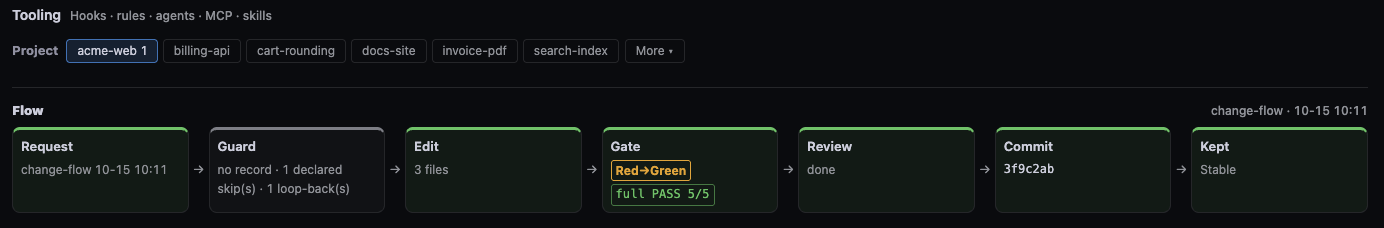
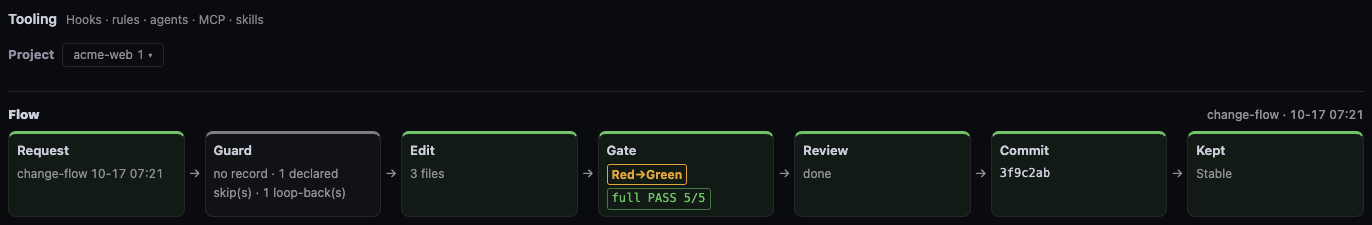
README images: generators for every shot, ship step to regenerate them
pipeline-run and harness-flow were hand captures with no generator and
went stale after UI changes; readme_shots.mjs now shoots both. Timeline
shots wait for their data (the account picker and «Runs n» lane were
sometimes missing), and the demo server no longer inherits
CLAUDE_CONFIG_DIR. sidereus-ship gains a step: a change that touches
web/ regenerates the README images it affects, keeping only images
whose pixels changed.

Claude-Session: https://claude.ai/code/session_01MxebWeSyRGi1H6Uy4AA5wg

diff --git a/scripts/README.md b/scripts/README.md
@@ -6,6 +6,7 @@
 - `leakscan.py` — scans shipped files (`git ls-files` minus `.distignore`) for your git user.name / user.email / login, real home paths, session UUIDs (outside `tests/`, demo data) and secrets. Skip a line with `leakscan: allow`.
 - `fmt_probe.py [--n N] [--json]` — upstream record-format probe: runs Sidereus's own parsers over the N newest real Claude Code / Codex / Gemini session files and names any field that came out empty on all of them (exit 1). A platform with no files is «skip». Run after a CLI upgrade. ⚠Reads live files — never from `check.sh`/`tests/run.sh`; `tests/test_fmt_probe.py` covers it with fixtures.
 - `readme_shots.mjs [name…]` — regenerates `docs/images/<name>-{en,ko}.png` (README/GUIDE) from its own `--demo` server and headless Chrome; 1200×750 app view at 2x, framed to 1600×1000. Never touches the live viewer.
+  - `pipeline-run` and `harness-flow` are unframed panel crops (1440-wide page, 1x): the Pipelines run canvas down to «Running N», and the «Tooling» › «Flow» strip.
 - `readme_gif.mjs [--frames DIR]` — animated README hero `docs/images/hero-{en,ko}.gif` (Pipelines view, change-flow stages lighting in turn; 1120×700, ~10s loop, ~400KB) with the same isolation; `--frames` writes three sample frames as PNG. Shared demo/Chrome/CDP helpers: `readme_cdp.mjs` — it also blanks `saverView`/`saverViews` in `/api/state` for both (the saver hook is not shipped, so users never see that chip).
 - `room_log.py <room> [--since <ISO|ns>] [--from-doc <path> | --doc-dir <dir>] [--bus <path>]` — one mailbox room's messages, oldest first (header line + time · sender · id · `[D]` decision tag · text); `--from-doc` (or `--doc-dir` = `<dir>/<slug>.md`) cuts at that room's last `room-minutes` marker. Input of the `room-minutes` skill; prints message text to the terminal only.
 - `install-hooks.sh` — sets `core.hooksPath=.githooks` once; `.githooks/pre-commit` then runs `check.sh --fast` and blocks the commit on FAIL (`--no-verify` to bypass).

diff --git a/.claude/skills/sidereus-ship/SKILL.md b/.claude/skills/sidereus-ship/SKILL.md
@@ -21,9 +21,12 @@ Tag each Bash description with `[pl:<pipeline>/<stage>]` when running inside a p
 4. **Live screen check** — the rendered page at 900 / 1100 / 1440 widths, console errors 0.
    Headless playwright on `http://127.0.0.1:8799/?nosave=1` is fine (⚠always `?nosave=1`: MCP browsers report `navigator.webdriver=false`, so without it a click writes the owner's prefs). ⚠Never open a new browser for the user (their tab is open; just ask them to refresh).
    ⚠API responses are not proof — the API has been right while the screen was wrong more than once.
-5. **Backup** — `bash backup.sh` (keeps the last 10).
-6. **CHANGELOG** — for a user-visible change, add one line under `CHANGELOG.md` `[Unreleased]` (Added / Changed / Fixed), in the same commit.
-7. **Commit** — the pre-commit hook runs `scripts/check.sh --fast` (install: `bash scripts/install-hooks.sh`).
+5. **README images** — if the change touched `web/` and a screen shown in `docs/images/` looks different, regenerate with
+   `node scripts/readme_shots.mjs` / `node scripts/readme_gif.mjs` (en + ko, demo world) and commit only images whose pixels changed.
+   ⚠Never capture images by hand — a shot with no generator goes stale silently after the next UI change.
+6. **Backup** — `bash backup.sh` (keeps the last 10).
+7. **CHANGELOG** — for a user-visible change, add one line under `CHANGELOG.md` `[Unreleased]` (Added / Changed / Fixed), in the same commit.
+8. **Commit** — the pre-commit hook runs `scripts/check.sh --fast` (install: `bash scripts/install-hooks.sh`).
    Message ends with the attribution lines given by the session. Local git only — no remote, no push.
    The body (before the attribution lines) ends with the criteria block from the `requirements` skill:
    ```
